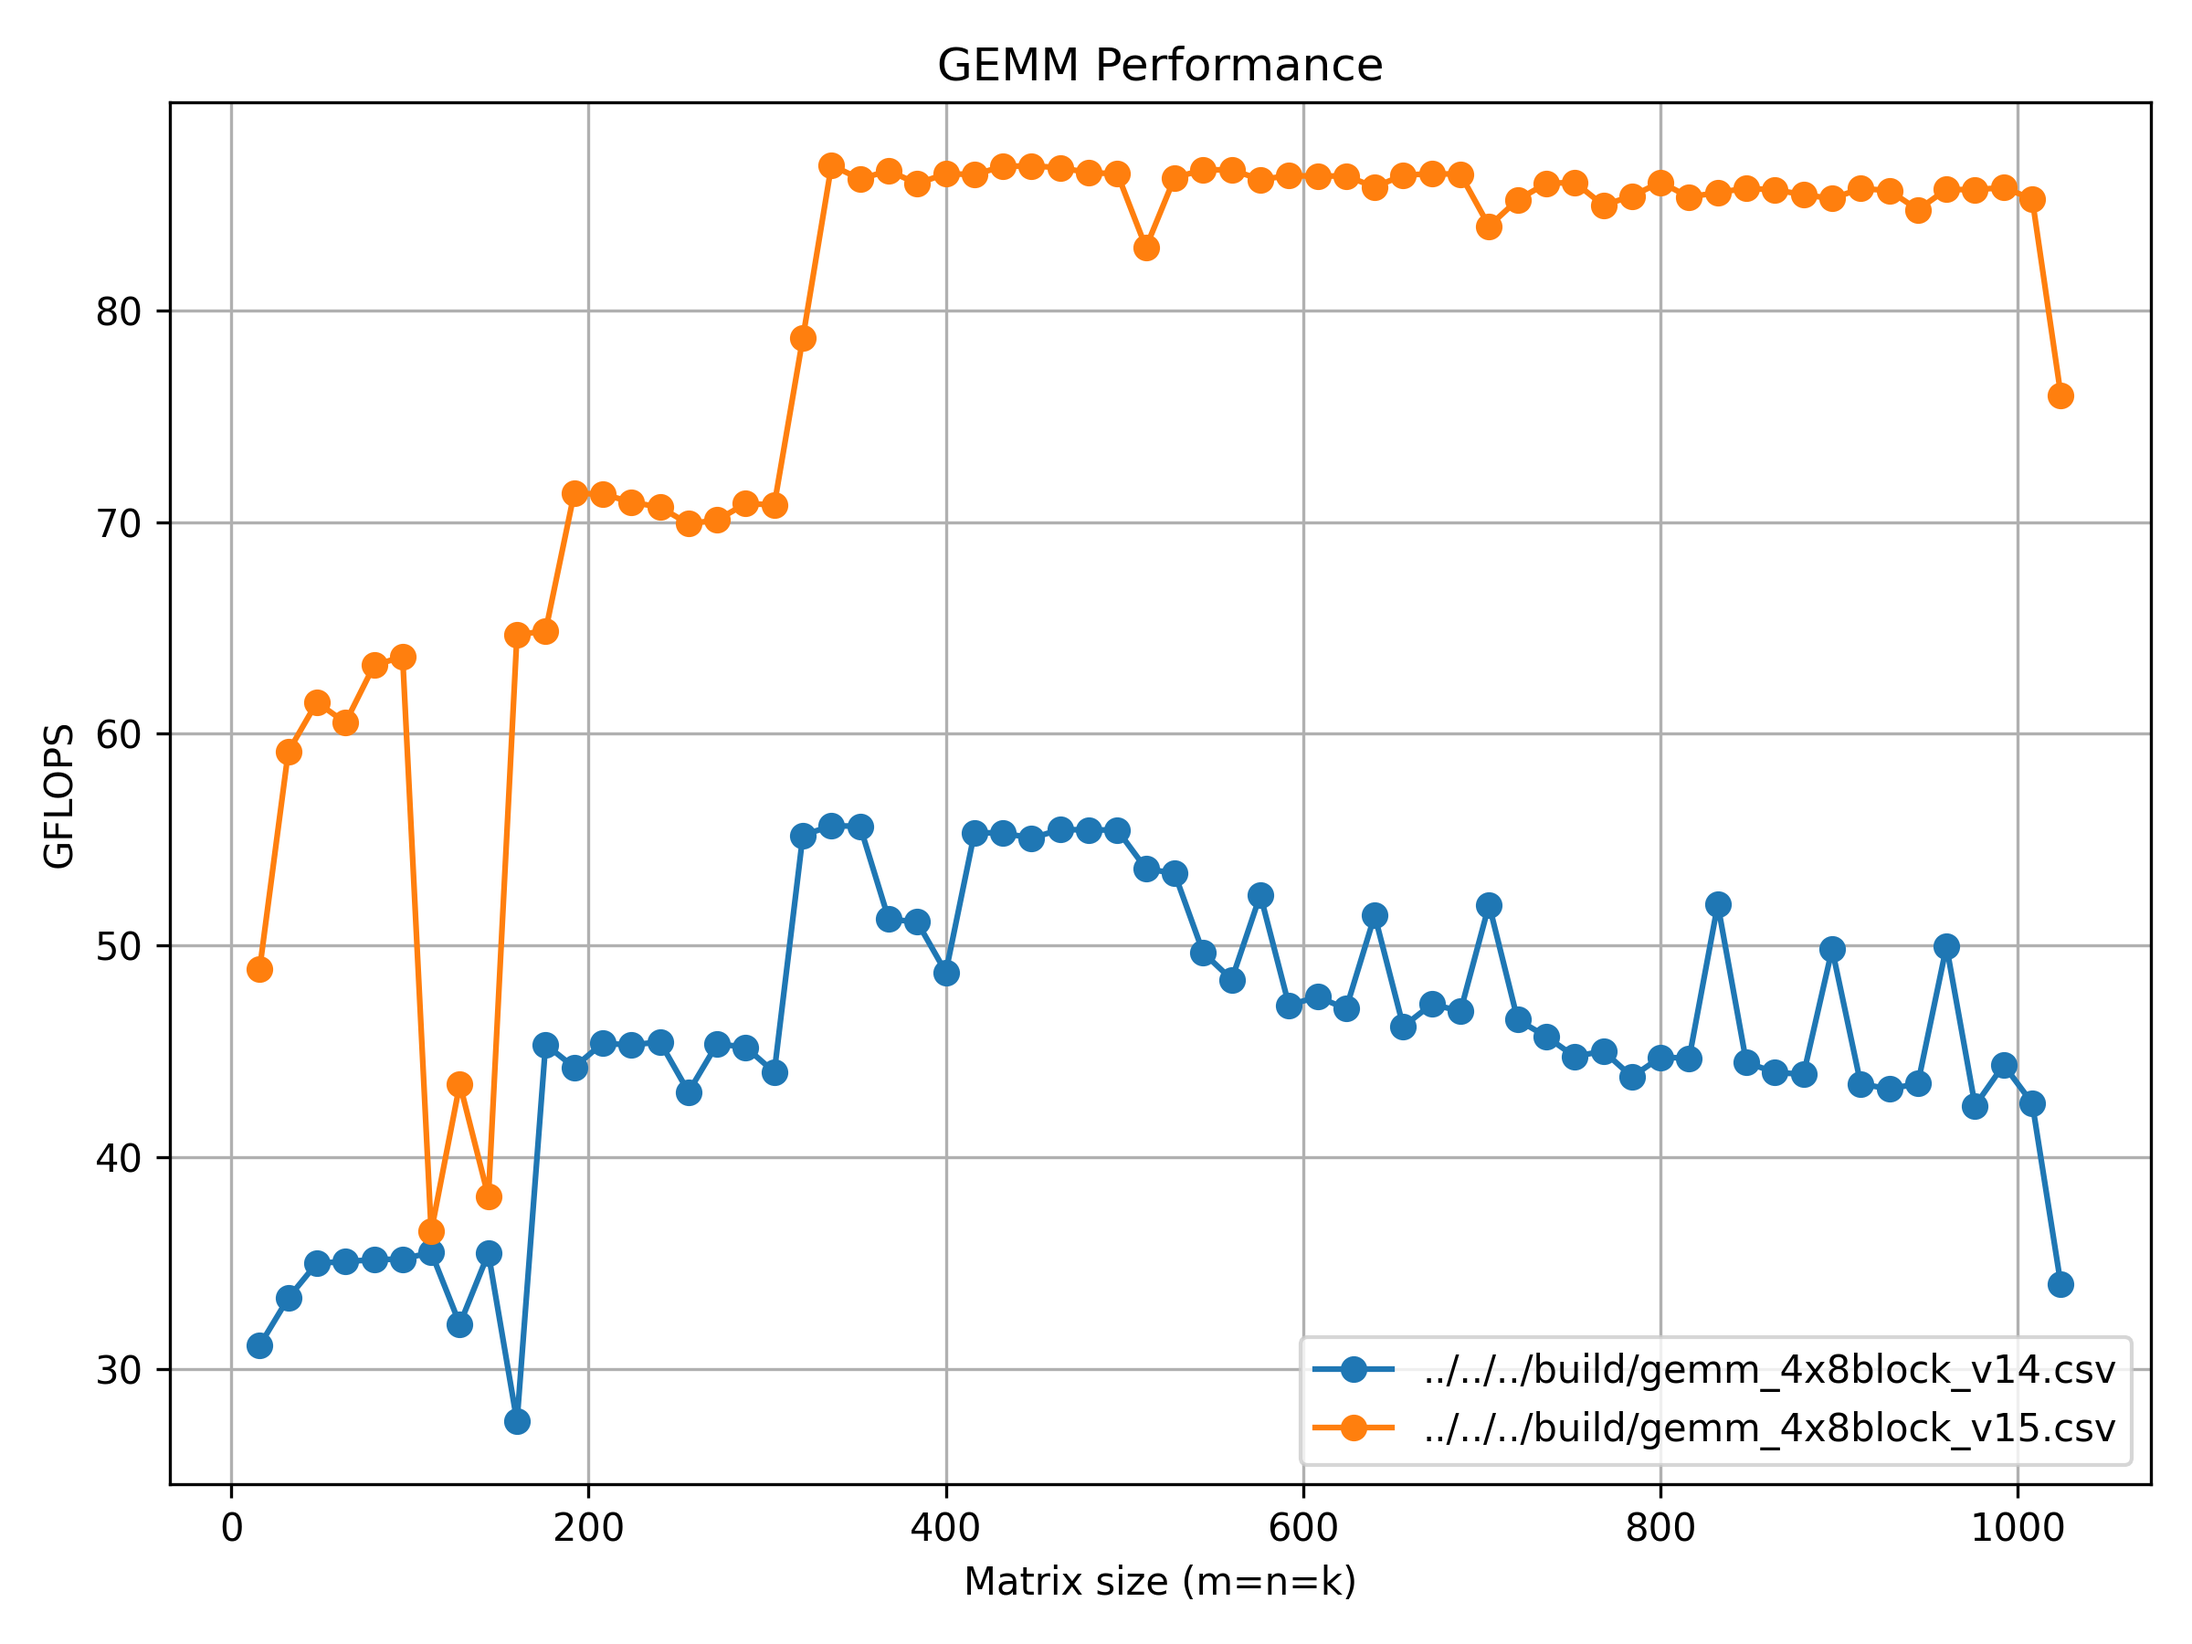
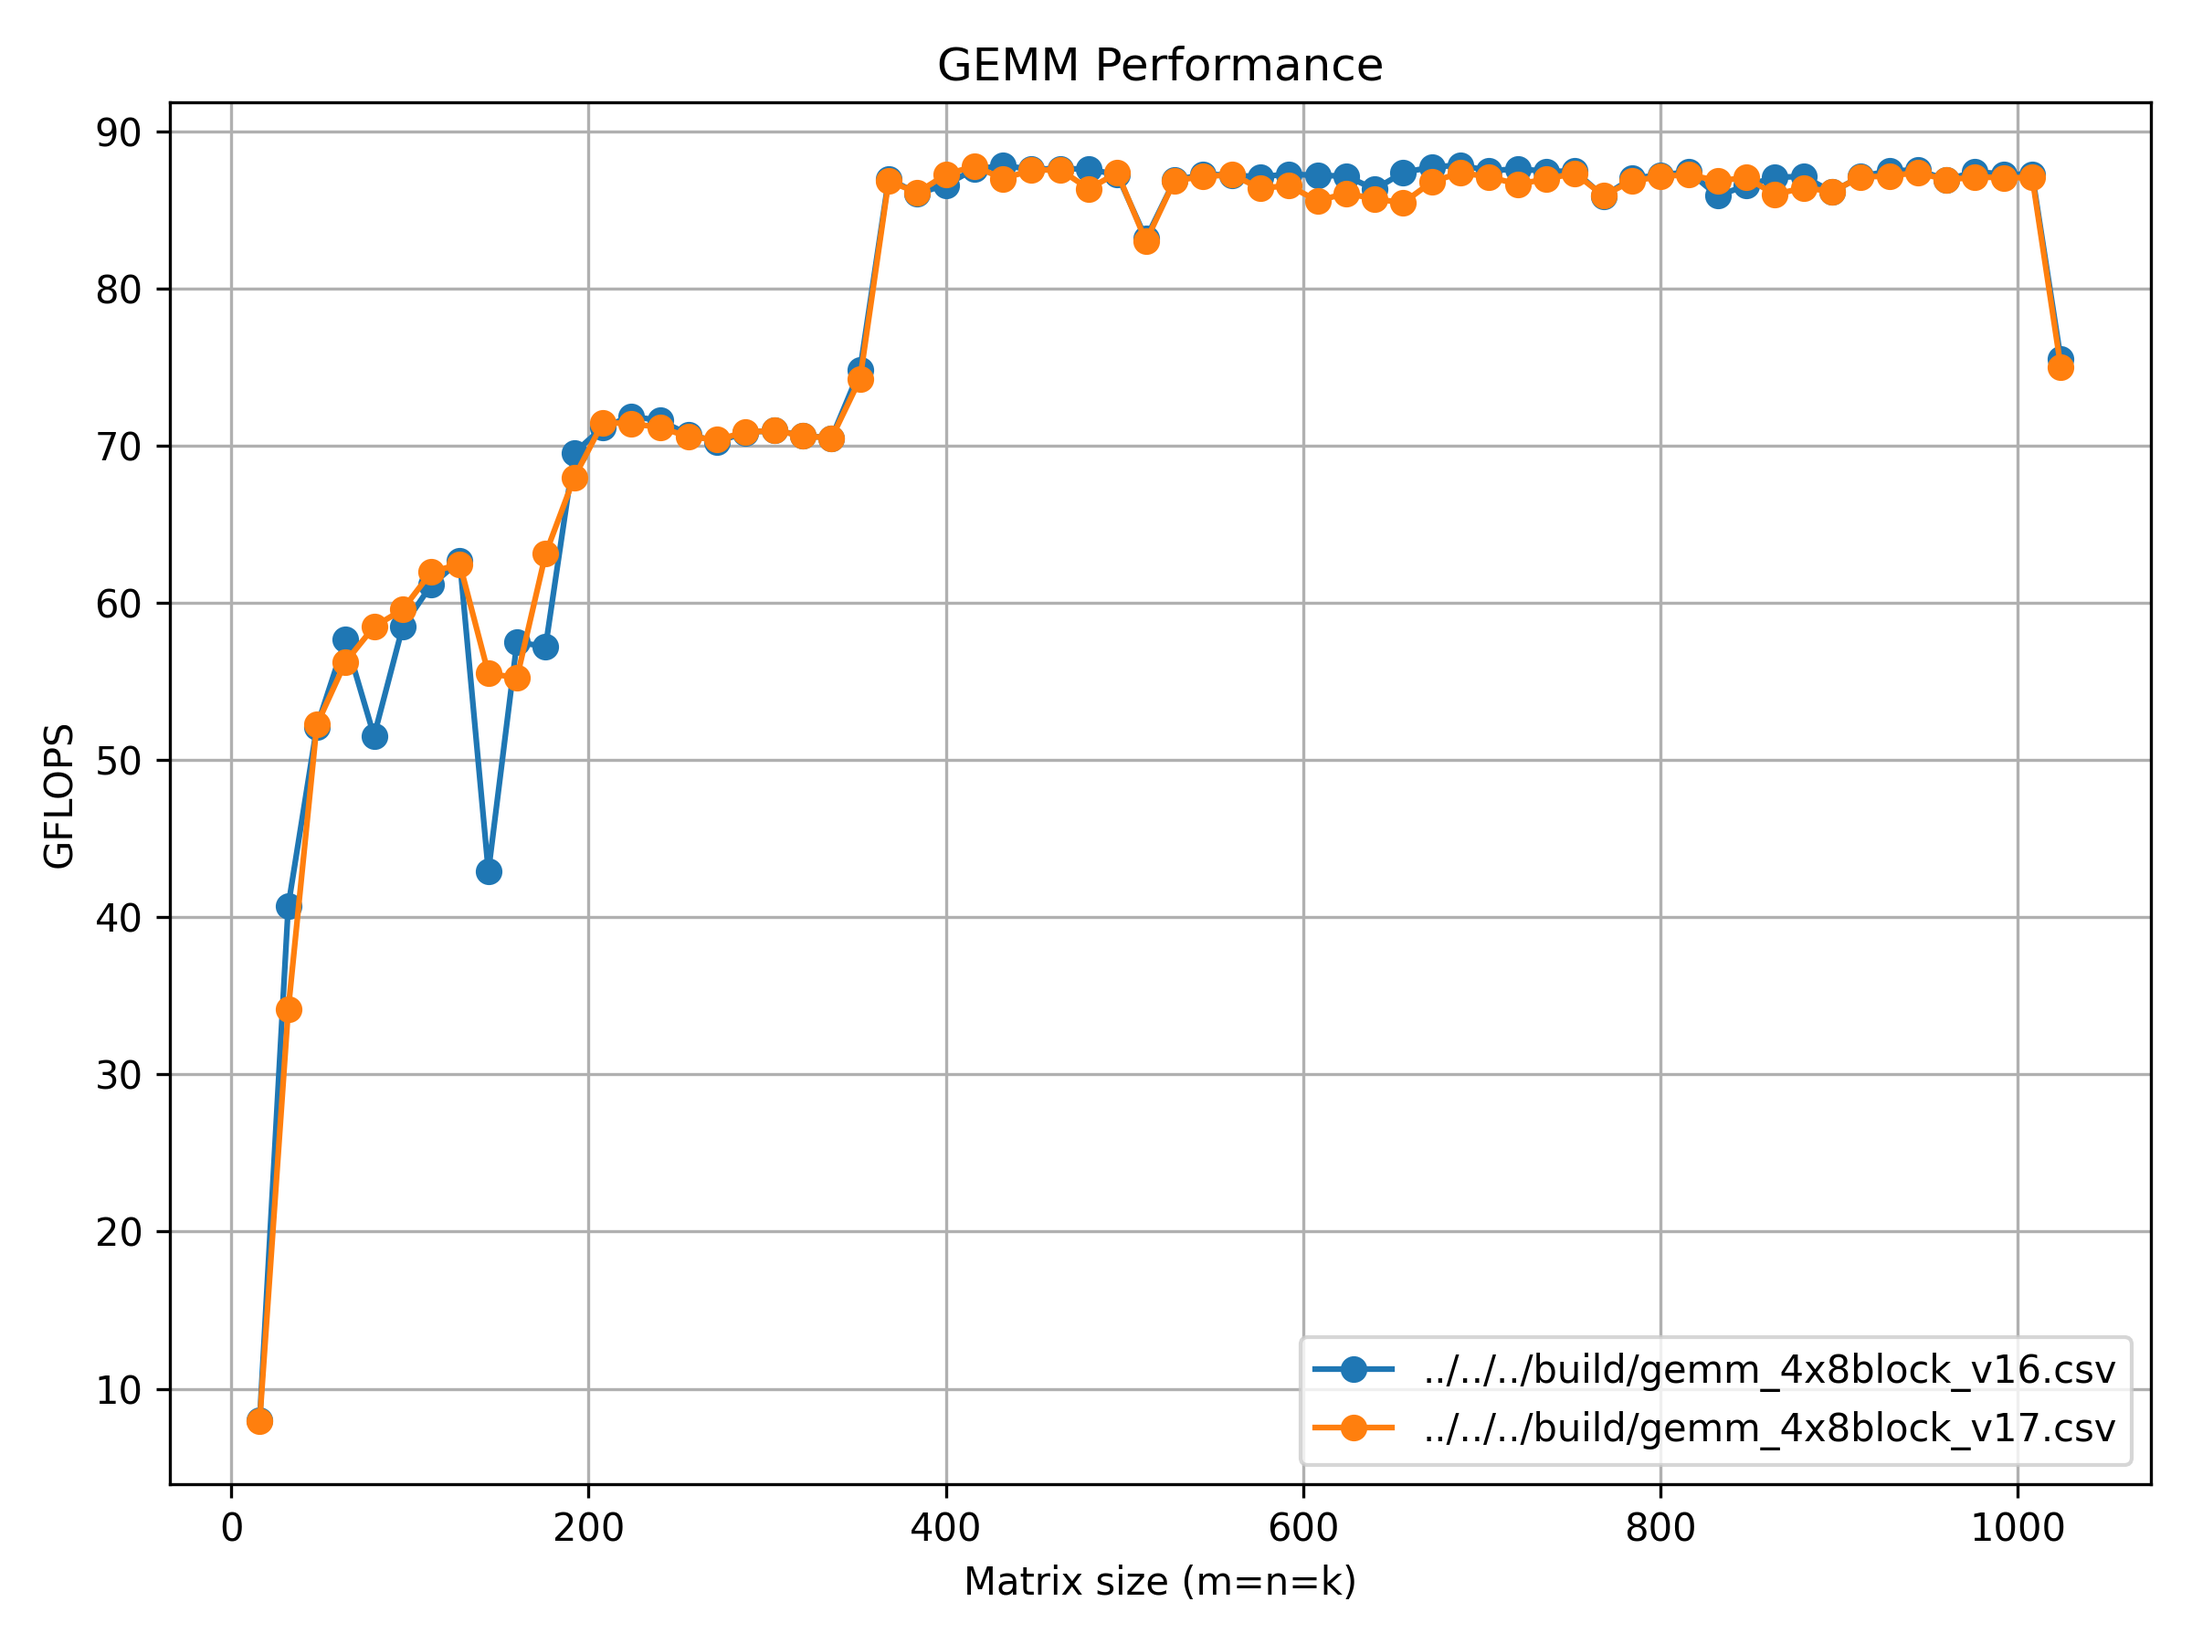
add gemm_4x8block v17

diff --git a/src/cpu/gemm/gemm_4x8block_v17.cpp b/src/cpu/gemm/gemm_4x8block_v17.cpp
@@ -1,5 +1,6 @@
 #include "gemm.h"
 #include <algorithm>
+#include <cstring>
 #include <immintrin.h>
 #include <xmmintrin.h>
 
@@ -22,10 +23,10 @@ static void addDot4x8(int k, float *packedA, float *packedB, int ldb, float *C,
   a2_vec.v = _mm256_set1_ps(0.00f);
   a3_vec.v = _mm256_set1_ps(0.00f);
 
-  float* a0_ptr = packedA;
-  float* a1_ptr = packedA + k;
-  float* a2_ptr = packedA + 2 * k;
-  float* a3_ptr = packedA + 3 * k;
+  float *a0_ptr = packedA;
+  float *a1_ptr = packedA + k;
+  float *a2_ptr = packedA + 2 * k;
+  float *a3_ptr = packedA + 3 * k;
 
   vec_t b_vec;
   b_vec.v = _mm256_set1_ps(0.00f);
@@ -51,21 +52,37 @@ static void addDot4x8(int k, float *packedA, float *packedB, int ldb, float *C,
   _mm256_store_ps(&C(3, 0), c3_vec.v);
 }
 
+static void storeVal1x8(const float *src, float *dst, int k) {
+  for (int p = 0; p < k; p += 8) {
+    auto val = _mm256_load_ps(src + p);
+    _mm256_store_ps(dst, val);
+    dst += 8;
+  }
+}
+
 static void packedMatrixA(float *A, float *packedA, int ib, int kb, int lda) {
 
-  for (int i = 0; i < ib; ++i) {
-    for (int j = 0; j < kb; ++j) {
-      *packedA++ = A(i, j);
-    }
+  for (int i = 0; i < ib; i += 4) {
+    storeVal1x8(&A(i, 0), packedA, kb);
+    storeVal1x8(&A(i + 1, 0), packedA + kb, kb);
+    storeVal1x8(&A(i + 2, 0), packedA + 2 * kb, kb);
+    storeVal1x8(&A(i + 3, 0), packedA + 3 * kb, kb);
+    packedA += 4 * kb;
   }
 }
 
 static void packedMatrixB(float *B, float *packedB, int k, int ldb, int nr) {
-  for (int p = 0; p < k; ++p) {
-    const float *bp = B + p * ldb;
-    for (int j = 0; j < nr; ++j) {
-      *packedB++ = bp[j];
-    }
+  for (int p = 0; p < k; p += 4) {
+    const float *bp0 = B + p * ldb;
+    const float *bp1 = B + (p + 1) * ldb;
+    const float *bp2 = B + (p + 2) * ldb;
+    const float *bp3 = B + (p + 3) * ldb;
+
+    storeVal1x8(bp0, packedB, nr);
+    storeVal1x8(bp1, packedB + nr, nr);
+    storeVal1x8(bp2, packedB + 2 * nr, nr);
+    storeVal1x8(bp3, packedB + 3 * nr, nr);
+    packedB += 4 * nr;
   }
 }
 
@@ -82,7 +99,7 @@ static void innerKernel(float *packedA, float *B, float *C, int m, int n, int k,
   }
 }
 
-void gemm_4x8block_v16(float *A, float *B, float *C, int m, int n, int k) {
+void gemm_4x8block_v17(float *A, float *B, float *C, int m, int n, int k) {
   int lda = k, ldb = n, ldc = n;
   const int MC = 256;
   const int NC = 256;

diff --git a/src/cpu/gemm/gemm_test.cpp b/src/cpu/gemm/gemm_test.cpp
@@ -34,6 +34,7 @@ std::map<std::string, gemm_func> gemm_map = {
     {"gemm_4x8block_v14", gemm_4x8block_v14},
     {"gemm_4x8block_v15", gemm_4x8block_v15},
     {"gemm_4x8block_v16", gemm_4x8block_v16},
+    {"gemm_4x8block_v17", gemm_4x8block_v17},
 };
 
 template <typename Func> void launchTest(const std::string &gemm_name, Func f) {

diff --git a/src/cpu/gemm/gemm_benchmark.cpp b/src/cpu/gemm/gemm_benchmark.cpp
@@ -35,6 +35,7 @@ std::unordered_map<std::string, gemm_func> gemm_map = {
     {"gemm_4x8block_v14", gemm_4x8block_v14},
     {"gemm_4x8block_v15", gemm_4x8block_v15},
     {"gemm_4x8block_v16", gemm_4x8block_v16},
+    {"gemm_4x8block_v17", gemm_4x8block_v17},
 };
 
 double gflops(int M, int N, int K, double seconds) {

diff --git a/src/cpu/gemm/gemm.h b/src/cpu/gemm/gemm.h
@@ -64,4 +64,6 @@ void gemm_4x8block_v15(float* A, float* B, float* C, int m, int n, int k);
 
 void gemm_4x8block_v16(float* A, float* B, float* C, int m, int n, int k);
 
+void gemm_4x8block_v17(float* A, float* B, float* C, int m, int n, int k);
+
 void gemm_blas(float *A, float *B, float *C, int m, int n, int k);
